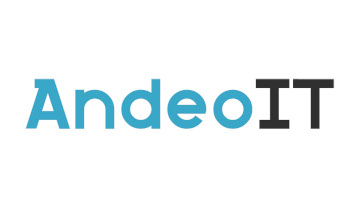
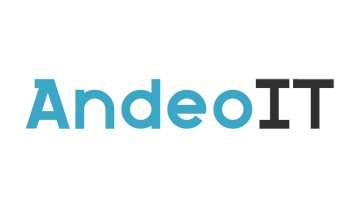
Ajuste responsive en seccion projects, optimizadas imagenes

diff --git a/src/components/Sections/Projects.js b/src/components/Sections/Projects.js
@@ -69,7 +69,7 @@ function Projects() {
 
   return <Section id='section-proyects'>
     <Container align='center' col>
-      <SectionTitle first='Mi' second='portfolio' />
+      <SectionTitle first='Mis' second='proyectos' />
       <ProjectsContainer>
         {PROJECT_LIST.map(project => {
           return <Project
